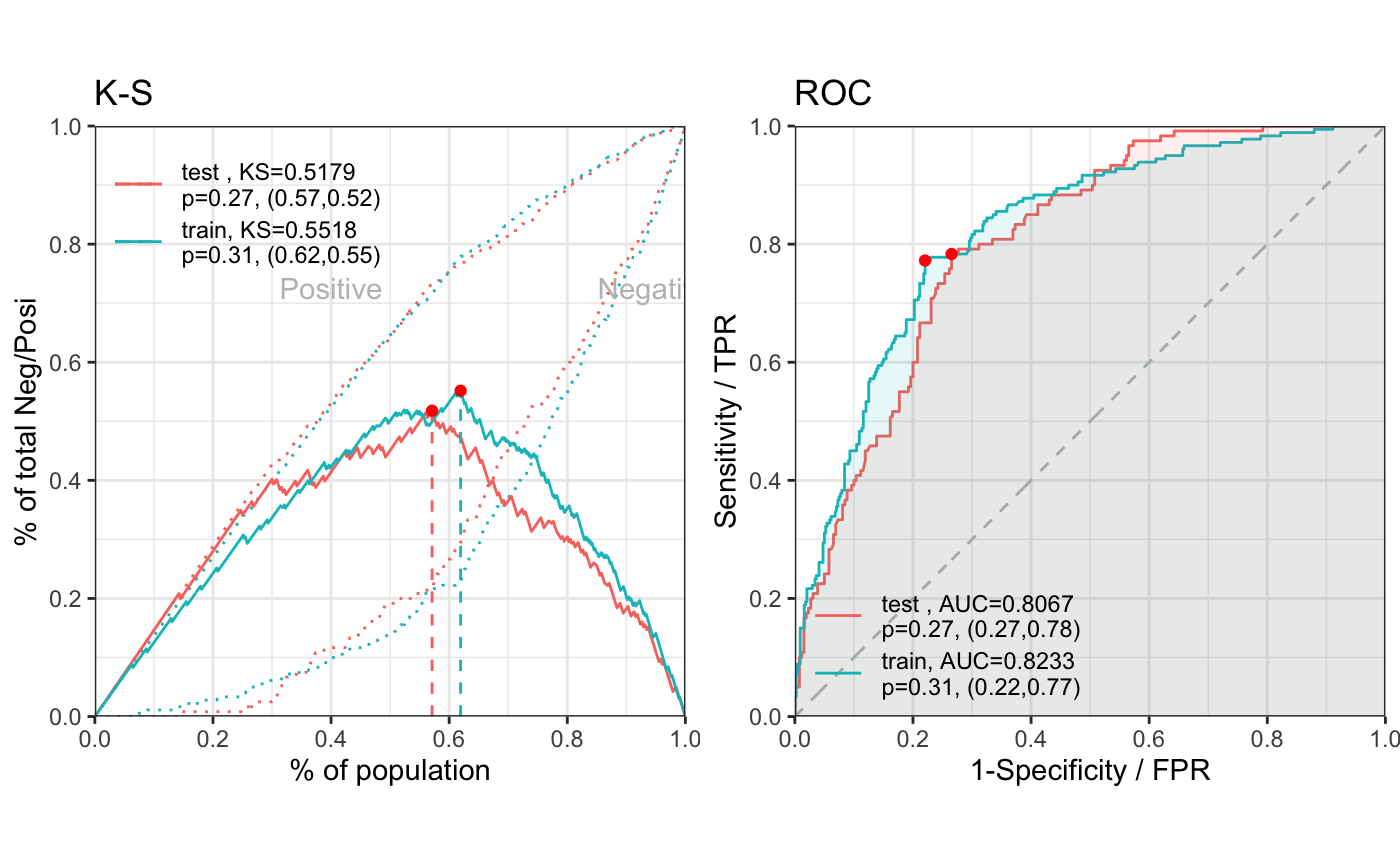
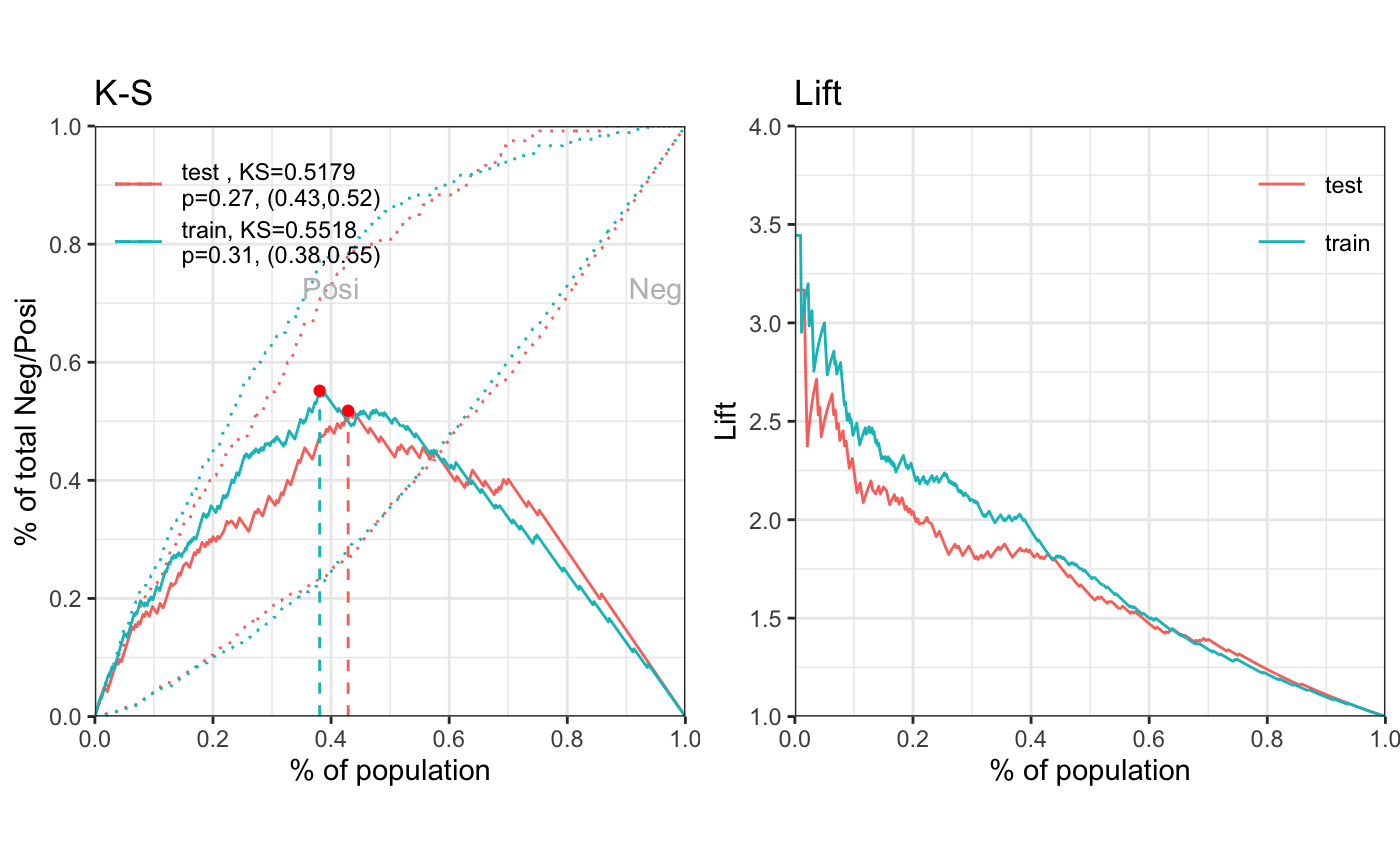
0.3.1

diff --git a/docs/reference/perf_eva.html b/docs/reference/perf_eva.html
@@ -145,8 +145,9 @@
     </div>
 
     <pre class="usage"><span class='fu'>perf_eva</span>(<span class='no'>pred</span>, <span class='no'>label</span>, <span class='kw'>title</span> <span class='kw'>=</span> <span class='kw'>NULL</span>, <span class='kw'>binomial_metric</span> <span class='kw'>=</span> <span class='fu'><a href='https://rdrr.io/r/base/c.html'>c</a></span>(<span class='st'>"mse"</span>, <span class='st'>"rmse"</span>,
-  <span class='st'>"logloss"</span>, <span class='st'>"r2"</span>, <span class='st'>"ks"</span>, <span class='st'>"auc"</span>, <span class='st'>"gini"</span>), <span class='kw'>confusion_matrix</span> <span class='kw'>=</span> <span class='fl'>TRUE</span>,
-  <span class='kw'>threshold</span> <span class='kw'>=</span> <span class='kw'>NULL</span>, <span class='kw'>show_plot</span> <span class='kw'>=</span> <span class='fu'><a href='https://rdrr.io/r/base/c.html'>c</a></span>(<span class='st'>"ks"</span>, <span class='st'>"roc"</span>), <span class='kw'>positive</span> <span class='kw'>=</span> <span class='st'>"bad|1"</span>, <span class='no'>...</span>)</pre>
+  <span class='st'>"logloss"</span>, <span class='st'>"r2"</span>, <span class='st'>"ks"</span>, <span class='st'>"auc"</span>, <span class='st'>"gini"</span>), <span class='kw'>confusion_matrix</span> <span class='kw'>=</span> <span class='fl'>FALSE</span>,
+  <span class='kw'>threshold</span> <span class='kw'>=</span> <span class='kw'>NULL</span>, <span class='kw'>show_plot</span> <span class='kw'>=</span> <span class='fu'><a href='https://rdrr.io/r/base/c.html'>c</a></span>(<span class='st'>"ks"</span>, <span class='st'>"lift"</span>), <span class='kw'>pred_desc</span> <span class='kw'>=</span> <span class='fl'>TRUE</span>,
+  <span class='kw'>positive</span> <span class='kw'>=</span> <span class='st'>"bad|1"</span>, <span class='no'>...</span>)</pre>
 
     <h2 class="hasAnchor" id="arguments"><a class="anchor" href="#arguments"></a>Arguments</h2>
     <table class="ref-arguments">
@@ -180,8 +181,12 @@
       <td><p>Defaults to c('ks', 'roc'). Accepted values including c('ks', 'lift', 'gain', 'roc', 'lz', 'pr', 'f1', 'density').</p></td>
     </tr>
     <tr>
+      <th>pred_desc</th>
+      <td><p>whether to sort the argument of pred in descending order. Defaults to TRUE.</p></td>
+    </tr>
+    <tr>
       <th>positive</th>
-      <td><p>Value of positive class, Defaults to "bad|1".</p></td>
+      <td><p>Value of positive class. Defaults to "bad|1".</p></td>
     </tr>
     <tr>
       <th>...</th>
@@ -243,18 +248,10 @@
 <span class='co'># Example I, one datset</span>
 <span class='co'>## predicted p1</span>
 <span class='fu'>perf_eva</span>(<span class='kw'>pred</span> <span class='kw'>=</span> <span class='no'>pred_list</span>$<span class='no'>train</span>, <span class='kw'>label</span><span class='kw'>=</span><span class='no'>dt_list</span>$<span class='no'>train</span>$<span class='no'>creditability</span>,
-  <span class='kw'>title</span> <span class='kw'>=</span> <span class='st'>'train'</span>)</div><div class='output co'>#&gt; [INFO] The threshold of confusion matrix is 0.3019.</div><div class='img'><img src='perf_eva-1.png' alt='' width='700' height='433' /></div><div class='output co'>#&gt; $binomial_metric
+  <span class='kw'>title</span> <span class='kw'>=</span> <span class='st'>'train'</span>)</div><div class='img'><img src='perf_eva-1.png' alt='' width='700' height='433' /></div><div class='output co'>#&gt; $binomial_metric
 #&gt; $binomial_metric$train
 #&gt;          MSE      RMSE   LogLoss        R2        KS       AUC      Gini
 #&gt; 1: 0.1519266 0.3897776 0.4578621 0.2779502 0.5003279 0.8267473 0.6534946
-#&gt; 
-#&gt; 
-#&gt; $confusion_matrix
-#&gt; $confusion_matrix$train
-#&gt;    label pred_0 pred_1     error
-#&gt; 1:     0    346    130 0.2731092
-#&gt; 2:     1     47    158 0.2292683
-#&gt; 3: total    393    288 0.2599119
 #&gt; 
 #&gt; 
 #&gt; $pic
@@ -269,7 +266,7 @@
 <span class='co'># Example II, multiple datsets</span>
 <span class='co'>## predicted p1</span>
 <span class='fu'>perf_eva</span>(<span class='kw'>pred</span> <span class='kw'>=</span> <span class='no'>pred_list</span>, <span class='kw'>label</span> <span class='kw'>=</span> <span class='no'>label_list</span>,
- <span class='kw'>show_plot</span> <span class='kw'>=</span> <span class='fu'><a href='https://rdrr.io/r/base/c.html'>c</a></span>(<span class='st'>'ks'</span>, <span class='st'>'lift'</span>, <span class='st'>'gain'</span>, <span class='st'>'roc'</span>, <span class='st'>'lz'</span>, <span class='st'>'pr'</span>, <span class='st'>'f1'</span>, <span class='st'>'density'</span>))</div><div class='output co'>#&gt; [INFO] The threshold of confusion matrix is 0.3019.</div><div class='img'><img src='perf_eva-2.png' alt='' width='700' height='433' /></div><div class='output co'>#&gt; $binomial_metric
+ <span class='kw'>show_plot</span> <span class='kw'>=</span> <span class='fu'><a href='https://rdrr.io/r/base/c.html'>c</a></span>(<span class='st'>'ks'</span>, <span class='st'>'lift'</span>, <span class='st'>'gain'</span>, <span class='st'>'roc'</span>, <span class='st'>'lz'</span>, <span class='st'>'pr'</span>, <span class='st'>'f1'</span>, <span class='st'>'density'</span>))</div><div class='img'><img src='perf_eva-2.png' alt='' width='700' height='433' /></div><div class='output co'>#&gt; $binomial_metric
 #&gt; $binomial_metric$train
 #&gt;          MSE      RMSE   LogLoss        R2        KS       AUC      Gini
 #&gt; 1: 0.1519266 0.3897776 0.4578621 0.2779502 0.5003279 0.8267473 0.6534946
@@ -277,20 +274,6 @@
 #&gt; $binomial_metric$test
 #&gt;          MSE      RMSE  LogLoss        R2        KS       AUC      Gini
 #&gt; 1: 0.1731937 0.4161655 0.522526 0.1717874 0.4421992 0.7714991 0.5429981
-#&gt; 
-#&gt; 
-#&gt; $confusion_matrix
-#&gt; $confusion_matrix$train
-#&gt;    label pred_0 pred_1     error
-#&gt; 1:     0    346    130 0.2731092
-#&gt; 2:     1     47    158 0.2292683
-#&gt; 3: total    393    288 0.2599119
-#&gt; 
-#&gt; $confusion_matrix$test
-#&gt;    label pred_0 pred_1     error
-#&gt; 1:     0    158     66 0.2946429
-#&gt; 2:     1     27     68 0.2842105
-#&gt; 3: total    185    134 0.2915361
 #&gt; 
 #&gt; 
 #&gt; $pic

diff --git a/docs/reference/gains_table.html b/docs/reference/gains_table.html
@@ -228,18 +228,10 @@
 <span class='co'>###### perf_eva examples ######</span>
 <span class='co'># Example I, one datset</span>
 <span class='co'>## predicted p1</span>
-<span class='fu'><a href='perf_eva.html'>perf_eva</a></span>(<span class='kw'>pred</span> <span class='kw'>=</span> <span class='no'>pred_list</span>$<span class='no'>train</span>, <span class='kw'>label</span><span class='kw'>=</span><span class='no'>dt_list</span>$<span class='no'>train</span>$<span class='no'>creditability</span>, <span class='kw'>title</span> <span class='kw'>=</span> <span class='st'>'train'</span>)</div><div class='output co'>#&gt; [INFO] The threshold of confusion matrix is 0.3019.</div><div class='img'><img src='gains_table-1.png' alt='' width='700' height='433' /></div><div class='output co'>#&gt; $binomial_metric
+<span class='fu'><a href='perf_eva.html'>perf_eva</a></span>(<span class='kw'>pred</span> <span class='kw'>=</span> <span class='no'>pred_list</span>$<span class='no'>train</span>, <span class='kw'>label</span><span class='kw'>=</span><span class='no'>dt_list</span>$<span class='no'>train</span>$<span class='no'>creditability</span>, <span class='kw'>title</span> <span class='kw'>=</span> <span class='st'>'train'</span>)</div><div class='img'><img src='gains_table-1.png' alt='' width='700' height='433' /></div><div class='output co'>#&gt; $binomial_metric
 #&gt; $binomial_metric$train
 #&gt;          MSE      RMSE   LogLoss        R2        KS       AUC      Gini
 #&gt; 1: 0.1519266 0.3897776 0.4578621 0.2779502 0.5003279 0.8267473 0.6534946
-#&gt; 
-#&gt; 
-#&gt; $confusion_matrix
-#&gt; $confusion_matrix$train
-#&gt;    label pred_0 pred_1     error
-#&gt; 1:     0    346    130 0.2731092
-#&gt; 2:     1     47    158 0.2292683
-#&gt; 3: total    393    288 0.2599119
 #&gt; 
 #&gt; 
 #&gt; $pic
@@ -252,7 +244,7 @@
 
 <span class='co'># Example II, multiple datsets</span>
 <span class='co'>## predicted p1</span>
-<span class='fu'><a href='perf_eva.html'>perf_eva</a></span>(<span class='kw'>pred</span> <span class='kw'>=</span> <span class='no'>pred_list</span>, <span class='kw'>label</span> <span class='kw'>=</span> <span class='no'>label_list</span>)</div><div class='output co'>#&gt; [INFO] The threshold of confusion matrix is 0.3019.</div><div class='img'><img src='gains_table-2.png' alt='' width='700' height='433' /></div><div class='output co'>#&gt; $binomial_metric
+<span class='fu'><a href='perf_eva.html'>perf_eva</a></span>(<span class='kw'>pred</span> <span class='kw'>=</span> <span class='no'>pred_list</span>, <span class='kw'>label</span> <span class='kw'>=</span> <span class='no'>label_list</span>)</div><div class='img'><img src='gains_table-2.png' alt='' width='700' height='433' /></div><div class='output co'>#&gt; $binomial_metric
 #&gt; $binomial_metric$train
 #&gt;          MSE      RMSE   LogLoss        R2        KS       AUC      Gini
 #&gt; 1: 0.1519266 0.3897776 0.4578621 0.2779502 0.5003279 0.8267473 0.6534946
@@ -260,20 +252,6 @@
 #&gt; $binomial_metric$test
 #&gt;          MSE      RMSE  LogLoss        R2        KS       AUC      Gini
 #&gt; 1: 0.1731937 0.4161655 0.522526 0.1717874 0.4421992 0.7714991 0.5429981
-#&gt; 
-#&gt; 
-#&gt; $confusion_matrix
-#&gt; $confusion_matrix$train
-#&gt;    label pred_0 pred_1     error
-#&gt; 1:     0    346    130 0.2731092
-#&gt; 2:     1     47    158 0.2292683
-#&gt; 3: total    393    288 0.2599119
-#&gt; 
-#&gt; $confusion_matrix$test
-#&gt;    label pred_0 pred_1     error
-#&gt; 1:     0    158     66 0.2946429
-#&gt; 2:     1     27     68 0.2842105
-#&gt; 3: total    185    134 0.2915361
 #&gt; 
 #&gt; 
 #&gt; $pic

diff --git a/docs/reference/perf_psi.html b/docs/reference/perf_psi.html
@@ -231,18 +231,10 @@
 <span class='co'>###### perf_eva examples ######</span>
 <span class='co'># Example I, one datset</span>
 <span class='co'>## predicted p1</span>
-<span class='fu'><a href='perf_eva.html'>perf_eva</a></span>(<span class='kw'>pred</span> <span class='kw'>=</span> <span class='no'>pred_list</span>$<span class='no'>train</span>, <span class='kw'>label</span><span class='kw'>=</span><span class='no'>dt_list</span>$<span class='no'>train</span>$<span class='no'>creditability</span>, <span class='kw'>title</span> <span class='kw'>=</span> <span class='st'>'train'</span>)</div><div class='output co'>#&gt; [INFO] The threshold of confusion matrix is 0.3019.</div><div class='img'><img src='perf_psi-1.png' alt='' width='700' height='433' /></div><div class='output co'>#&gt; $binomial_metric
+<span class='fu'><a href='perf_eva.html'>perf_eva</a></span>(<span class='kw'>pred</span> <span class='kw'>=</span> <span class='no'>pred_list</span>$<span class='no'>train</span>, <span class='kw'>label</span><span class='kw'>=</span><span class='no'>dt_list</span>$<span class='no'>train</span>$<span class='no'>creditability</span>, <span class='kw'>title</span> <span class='kw'>=</span> <span class='st'>'train'</span>)</div><div class='img'><img src='perf_psi-1.png' alt='' width='700' height='433' /></div><div class='output co'>#&gt; $binomial_metric
 #&gt; $binomial_metric$train
 #&gt;          MSE      RMSE   LogLoss        R2        KS       AUC      Gini
 #&gt; 1: 0.1519266 0.3897776 0.4578621 0.2779502 0.5003279 0.8267473 0.6534946
-#&gt; 
-#&gt; 
-#&gt; $confusion_matrix
-#&gt; $confusion_matrix$train
-#&gt;    label pred_0 pred_1     error
-#&gt; 1:     0    346    130 0.2731092
-#&gt; 2:     1     47    158 0.2292683
-#&gt; 3: total    393    288 0.2599119
 #&gt; 
 #&gt; 
 #&gt; $pic
@@ -255,7 +247,7 @@
 
 <span class='co'># Example II, multiple datsets</span>
 <span class='co'>## predicted p1</span>
-<span class='fu'><a href='perf_eva.html'>perf_eva</a></span>(<span class='kw'>pred</span> <span class='kw'>=</span> <span class='no'>pred_list</span>, <span class='kw'>label</span> <span class='kw'>=</span> <span class='no'>label_list</span>)</div><div class='output co'>#&gt; [INFO] The threshold of confusion matrix is 0.3019.</div><div class='img'><img src='perf_psi-2.png' alt='' width='700' height='433' /></div><div class='output co'>#&gt; $binomial_metric
+<span class='fu'><a href='perf_eva.html'>perf_eva</a></span>(<span class='kw'>pred</span> <span class='kw'>=</span> <span class='no'>pred_list</span>, <span class='kw'>label</span> <span class='kw'>=</span> <span class='no'>label_list</span>)</div><div class='img'><img src='perf_psi-2.png' alt='' width='700' height='433' /></div><div class='output co'>#&gt; $binomial_metric
 #&gt; $binomial_metric$train
 #&gt;          MSE      RMSE   LogLoss        R2        KS       AUC      Gini
 #&gt; 1: 0.1519266 0.3897776 0.4578621 0.2779502 0.5003279 0.8267473 0.6534946
@@ -263,20 +255,6 @@
 #&gt; $binomial_metric$test
 #&gt;          MSE      RMSE  LogLoss        R2        KS       AUC      Gini
 #&gt; 1: 0.1731937 0.4161655 0.522526 0.1717874 0.4421992 0.7714991 0.5429981
-#&gt; 
-#&gt; 
-#&gt; $confusion_matrix
-#&gt; $confusion_matrix$train
-#&gt;    label pred_0 pred_1     error
-#&gt; 1:     0    346    130 0.2731092
-#&gt; 2:     1     47    158 0.2292683
-#&gt; 3: total    393    288 0.2599119
-#&gt; 
-#&gt; $confusion_matrix$test
-#&gt;    label pred_0 pred_1     error
-#&gt; 1:     0    158     66 0.2946429
-#&gt; 2:     1     27     68 0.2842105
-#&gt; 3: total    185    134 0.2915361
 #&gt; 
 #&gt; 
 #&gt; $pic

diff --git a/docs/reference/one_hot.html b/docs/reference/one_hot.html
@@ -180,9 +180,9 @@
 <span class='fu'><a href='https://rdrr.io/r/utils/data.html'>data</a></span>(<span class='no'>germancredit</span>)
 
 <span class='fu'><a href='https://rdrr.io/r/base/library.html'>library</a></span>(<span class='no'>data.table</span>)
-<span class='no'>dat</span> <span class='kw'>=</span> <span class='fu'><a href='https://rdrr.io/pkg/data.table/man/rbindlist.html'>rbind</a></span>(
-  <span class='fu'><a href='https://rdrr.io/pkg/data.table/man/setDT.html'>setDT</a></span>(<span class='no'>germancredit</span>)[, <span class='fu'><a href='https://rdrr.io/r/base/c.html'>c</a></span>(<span class='fu'><a href='https://rdrr.io/r/base/sample.html'>sample</a></span>(<span class='fl'>20</span>,<span class='fl'>3</span>),<span class='fl'>21</span>)],
-  <span class='fu'><a href='https://rdrr.io/pkg/data.table/man/data.table.html'>data.table</a></span>(<span class='kw'>creditability</span><span class='kw'>=</span><span class='fu'><a href='https://rdrr.io/r/base/sample.html'>sample</a></span>(<span class='fu'><a href='https://rdrr.io/r/base/c.html'>c</a></span>(<span class='st'>"good"</span>,<span class='st'>"bad"</span>),<span class='fl'>10</span>,<span class='kw'>replace</span><span class='kw'>=</span><span class='fl'>TRUE</span>)),
+<span class='no'>dat</span> <span class='kw'>=</span> <span class='fu'><a href='https://Rdatatable.gitlab.io/data.table/reference/rbindlist.html'>rbind</a></span>(
+  <span class='fu'><a href='https://Rdatatable.gitlab.io/data.table/reference/setDT.html'>setDT</a></span>(<span class='no'>germancredit</span>)[, <span class='fu'><a href='https://rdrr.io/r/base/c.html'>c</a></span>(<span class='fu'><a href='https://rdrr.io/r/base/sample.html'>sample</a></span>(<span class='fl'>20</span>,<span class='fl'>3</span>),<span class='fl'>21</span>)],
+  <span class='fu'><a href='https://Rdatatable.gitlab.io/data.table/reference/data.table.html'>data.table</a></span>(<span class='kw'>creditability</span><span class='kw'>=</span><span class='fu'><a href='https://rdrr.io/r/base/sample.html'>sample</a></span>(<span class='fu'><a href='https://rdrr.io/r/base/c.html'>c</a></span>(<span class='st'>"good"</span>,<span class='st'>"bad"</span>),<span class='fl'>10</span>,<span class='kw'>replace</span><span class='kw'>=</span><span class='fl'>TRUE</span>)),
   <span class='kw'>fill</span><span class='kw'>=</span><span class='fl'>TRUE</span>)
 
 <span class='co'># one hot encoding</span>

diff --git a/docs/reference/replace_na.html b/docs/reference/replace_na.html
@@ -165,9 +165,9 @@
 <span class='fu'><a href='https://rdrr.io/r/utils/data.html'>data</a></span>(<span class='no'>germancredit</span>)
 
 <span class='fu'><a href='https://rdrr.io/r/base/library.html'>library</a></span>(<span class='no'>data.table</span>)
-<span class='no'>dat</span> <span class='kw'>=</span> <span class='fu'><a href='https://rdrr.io/pkg/data.table/man/rbindlist.html'>rbind</a></span>(
-  <span class='fu'><a href='https://rdrr.io/pkg/data.table/man/setDT.html'>setDT</a></span>(<span class='no'>germancredit</span>)[, <span class='fu'><a href='https://rdrr.io/r/base/c.html'>c</a></span>(<span class='fu'><a href='https://rdrr.io/r/base/sample.html'>sample</a></span>(<span class='fl'>20</span>,<span class='fl'>3</span>),<span class='fl'>21</span>)],
-  <span class='fu'><a href='https://rdrr.io/pkg/data.table/man/data.table.html'>data.table</a></span>(<span class='kw'>creditability</span><span class='kw'>=</span><span class='fu'><a href='https://rdrr.io/r/base/sample.html'>sample</a></span>(<span class='fu'><a href='https://rdrr.io/r/base/c.html'>c</a></span>(<span class='st'>"good"</span>,<span class='st'>"bad"</span>),<span class='fl'>10</span>,<span class='kw'>replace</span><span class='kw'>=</span><span class='fl'>TRUE</span>)),
+<span class='no'>dat</span> <span class='kw'>=</span> <span class='fu'><a href='https://Rdatatable.gitlab.io/data.table/reference/rbindlist.html'>rbind</a></span>(
+  <span class='fu'><a href='https://Rdatatable.gitlab.io/data.table/reference/setDT.html'>setDT</a></span>(<span class='no'>germancredit</span>)[, <span class='fu'><a href='https://rdrr.io/r/base/c.html'>c</a></span>(<span class='fu'><a href='https://rdrr.io/r/base/sample.html'>sample</a></span>(<span class='fl'>20</span>,<span class='fl'>3</span>),<span class='fl'>21</span>)],
+  <span class='fu'><a href='https://Rdatatable.gitlab.io/data.table/reference/data.table.html'>data.table</a></span>(<span class='kw'>creditability</span><span class='kw'>=</span><span class='fu'><a href='https://rdrr.io/r/base/sample.html'>sample</a></span>(<span class='fu'><a href='https://rdrr.io/r/base/c.html'>c</a></span>(<span class='st'>"good"</span>,<span class='st'>"bad"</span>),<span class='fl'>10</span>,<span class='kw'>replace</span><span class='kw'>=</span><span class='fl'>TRUE</span>)),
   <span class='kw'>fill</span><span class='kw'>=</span><span class='fl'>TRUE</span>)
 
 <span class='co'>## replace with -1</span>

diff --git a/docs/articles/demo.html b/docs/articles/demo.html
@@ -97,7 +97,7 @@
       <h1 data-toc-skip>Developing a Credit Scorecard</h1>
                         <h4 class="author">Shichen Xie, Michael Thomas</h4>
             
-            <h4 class="date">2020-08-09</h4>
+            <h4 class="date">2020-08-16</h4>
       
       <small class="dont-index">Source: <a href="https://github.com/ShichenXie/scorecard/blob/master/vignettes/demo.Rmd"><code>vignettes/demo.Rmd</code></a></small>
       <div class="hidden name"><code>demo.Rmd</code></div>
@@ -207,8 +207,7 @@
 <div class="sourceCode" id="cb11"><html><body><pre class="r"><span class="co"># First, get probabalistic predictions</span>
 <span class="no">pred_list</span> <span class="kw">&lt;-</span> <span class="fu"><a href="https://rdrr.io/r/base/lapply.html">lapply</a></span>(<span class="no">dt_woe_list</span>, <span class="kw">function</span>(<span class="no">x</span>) <span class="fu"><a href="https://rdrr.io/r/stats/predict.html">predict</a></span>(<span class="no">m2</span>, <span class="no">x</span>, <span class="kw">type</span> <span class="kw">=</span> <span class="st">'response'</span>))
 <span class="co"># Then evaluate model accuracy  </span>
-<span class="no">perf</span> <span class="kw">&lt;-</span> <span class="fu"><a href="../reference/perf_eva.html">perf_eva</a></span>(<span class="kw">pred</span> <span class="kw">=</span> <span class="no">pred_list</span>, <span class="kw">label</span> <span class="kw">=</span> <span class="no">label_list</span>)
-<span class="co">#&gt; [INFO] The threshold of confusion matrix is 0.3098.</span></pre></body></html></div>
+<span class="no">perf</span> <span class="kw">&lt;-</span> <span class="fu"><a href="../reference/perf_eva.html">perf_eva</a></span>(<span class="kw">pred</span> <span class="kw">=</span> <span class="no">pred_list</span>, <span class="kw">label</span> <span class="kw">=</span> <span class="no">label_list</span>)</pre></body></html></div>
 <p><img src="demo_files/figure-html/unnamed-chunk-11-1.png" width="700"></p>
 </div>
 <div id="create-scorecard" class="section level3">

diff --git a/docs/reference/woebin.html b/docs/reference/woebin.html
@@ -303,9 +303,9 @@
 <span class='co'># Example IV</span>
 <span class='co'># customizing the breakpoints of binning</span>
 <span class='fu'><a href='https://rdrr.io/r/base/library.html'>library</a></span>(<span class='no'>data.table</span>)
-<span class='no'>dat</span> <span class='kw'>=</span> <span class='fu'><a href='https://rdrr.io/pkg/data.table/man/rbindlist.html'>rbind</a></span>(
-  <span class='fu'><a href='https://rdrr.io/pkg/data.table/man/setDT.html'>setDT</a></span>(<span class='no'>germancredit</span>),
-  <span class='fu'><a href='https://rdrr.io/pkg/data.table/man/data.table.html'>data.table</a></span>(<span class='kw'>creditability</span><span class='kw'>=</span><span class='fu'><a href='https://rdrr.io/r/base/sample.html'>sample</a></span>(<span class='fu'><a href='https://rdrr.io/r/base/c.html'>c</a></span>(<span class='st'>"good"</span>,<span class='st'>"bad"</span>),<span class='fl'>10</span>,<span class='kw'>replace</span><span class='kw'>=</span><span class='fl'>TRUE</span>)),
+<span class='no'>dat</span> <span class='kw'>=</span> <span class='fu'><a href='https://Rdatatable.gitlab.io/data.table/reference/rbindlist.html'>rbind</a></span>(
+  <span class='fu'><a href='https://Rdatatable.gitlab.io/data.table/reference/setDT.html'>setDT</a></span>(<span class='no'>germancredit</span>),
+  <span class='fu'><a href='https://Rdatatable.gitlab.io/data.table/reference/data.table.html'>data.table</a></span>(<span class='kw'>creditability</span><span class='kw'>=</span><span class='fu'><a href='https://rdrr.io/r/base/sample.html'>sample</a></span>(<span class='fu'><a href='https://rdrr.io/r/base/c.html'>c</a></span>(<span class='st'>"good"</span>,<span class='st'>"bad"</span>),<span class='fl'>10</span>,<span class='kw'>replace</span><span class='kw'>=</span><span class='fl'>TRUE</span>)),
   <span class='kw'>fill</span><span class='kw'>=</span><span class='fl'>TRUE</span>)
 
 <span class='no'>breaks_list</span> <span class='kw'>=</span> <span class='fu'><a href='https://rdrr.io/r/base/list.html'>list</a></span>(

diff --git a/docs/reference/woebin_ply.html b/docs/reference/woebin_ply.html
@@ -216,7 +216,7 @@
 <span class='co'># bins is a list which generated from woebin()</span>
 <span class='no'>germancredit_woe</span> <span class='kw'>=</span> <span class='fu'>woebin_ply</span>(<span class='no'>germancredit</span>, <span class='no'>bins_germancredit</span>)</div><div class='output co'>#&gt; [INFO] converting into woe values ... </div><div class='input'>
 <span class='co'># bins is a data frame</span>
-<span class='no'>bins_df</span> <span class='kw'>=</span> <span class='kw pkg'>data.table</span><span class='kw ns'>::</span><span class='fu'><a href='https://rdrr.io/pkg/data.table/man/rbindlist.html'>rbindlist</a></span>(<span class='no'>bins_germancredit</span>)
+<span class='no'>bins_df</span> <span class='kw'>=</span> <span class='kw pkg'>data.table</span><span class='kw ns'>::</span><span class='fu'><a href='https://Rdatatable.gitlab.io/data.table/reference/rbindlist.html'>rbindlist</a></span>(<span class='no'>bins_germancredit</span>)
 <span class='no'>germancredit_woe</span> <span class='kw'>=</span> <span class='fu'>woebin_ply</span>(<span class='no'>germancredit</span>, <span class='no'>bins_df</span>)</div><div class='output co'>#&gt; [INFO] converting into woe values ... </div><div class='input'>
 # }
 

diff --git a/docs/index.html b/docs/index.html
@@ -127,7 +127,7 @@
 <li>Install the latest version of <code>scorecard</code> from <a href="https://github.com/ShichenXie/scorecard">github</a> with:</li>
 </ul>
 <div class="sourceCode" id="cb2"><pre class="r"><span class="co"># install.packages("devtools")</span>
-<span class="kw pkg">devtools</span><span class="kw ns">::</span><span class="fu"><a href="https://rdrr.io/pkg/devtools/man/remote-reexports.html">install_github</a></span>(<span class="st">"shichenxie/scorecard"</span>)</pre></div>
+<span class="kw pkg">devtools</span><span class="kw ns">::</span><span class="fu"><a href="https://devtools.r-lib.org//reference/remote-reexports.html">install_github</a></span>(<span class="st">"shichenxie/scorecard"</span>)</pre></div>
 </div>
 <div id="example" class="section level2">
 <h2 class="hasAnchor">

diff --git a/docs/news/index.html b/docs/news/index.html
@@ -146,6 +146,7 @@
 <li>added a parameter in scorecard/scorecard2 function to round score</li>
 <li>added parameters show_varval/show_lineval in woebin_plot function to show bar value or line value</li>
 <li>added a parameter breaks_by in perf_psi/gains_table function to identify the data set to create breakpoints.</li>
+<li>modified the graphics format of perf_eva function</li>
 </ul>
 </div>
     <div id="scorecard-030" class="section level1">

diff --git a/NEWS.md b/NEWS.md
@@ -3,6 +3,7 @@
 * added a parameter in scorecard/scorecard2 function to round score
 * added parameters show_varval/show_lineval in woebin_plot function to show bar value or line value
 * added a parameter breaks_by in perf_psi/gains_table function to identify the data set to create breakpoints.
+* modified the graphics format of perf_eva function
 
 # scorecard 0.3.0
 
